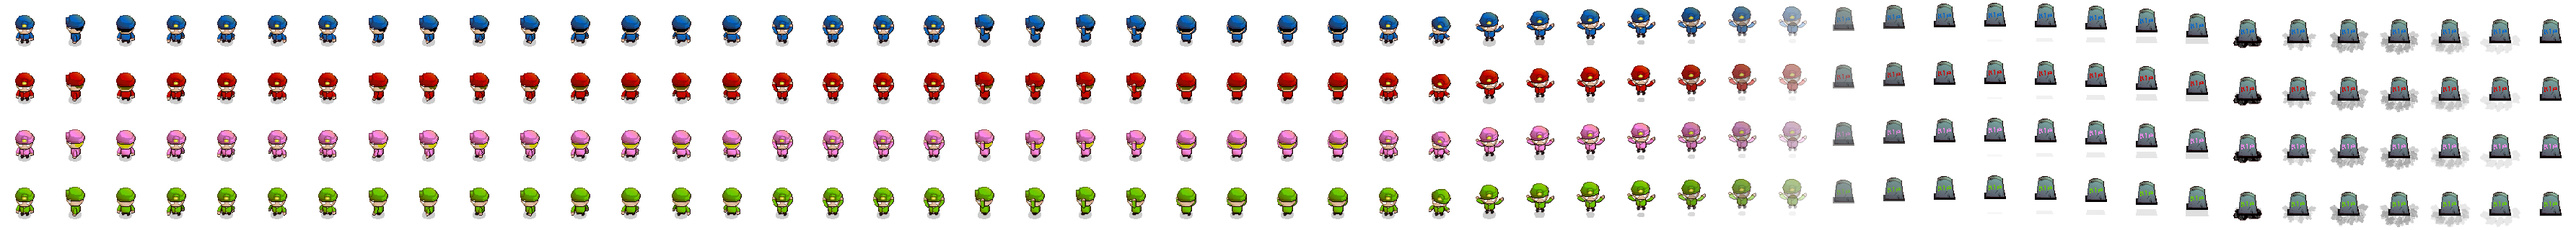
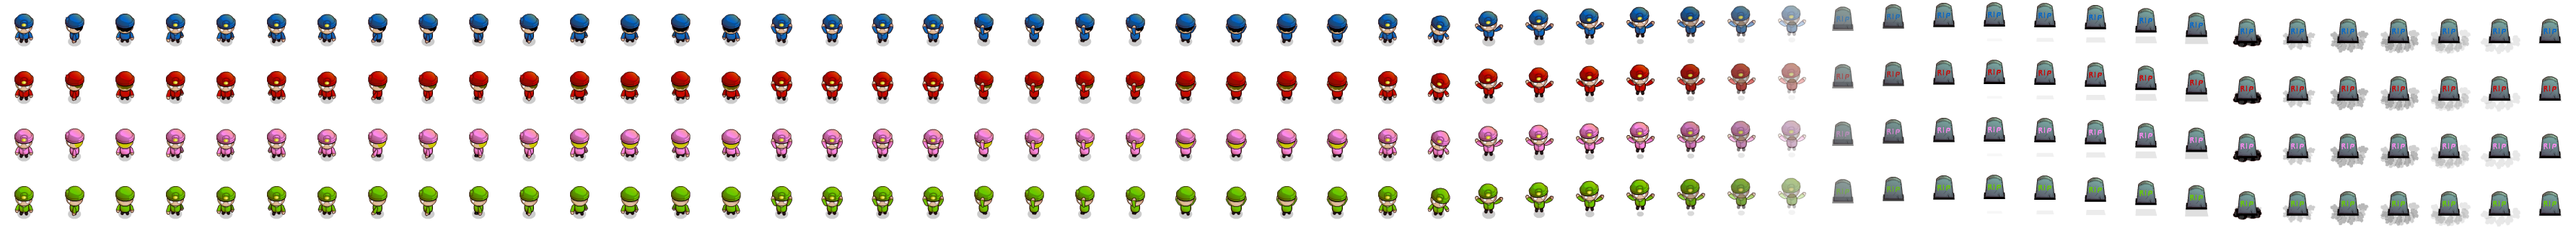
Update to HD assets

diff --git a/src/titlescreen.js b/src/titlescreen.js
@@ -10,6 +10,12 @@ TitleScreen.prototype.create = function() {
   this.slots.x = GAME_SCREEN_WIDTH * 0.15;
   this.slots.y = (GAME_SCREEN_HEIGHT + UI_BAR_HEIGHT) * 0.75;
 
+  /*
+  for (var i = 0; i < 4; i++) {
+    var emptySlot = this.game.add.sprite(i * 180, -48, 'grey_icon', 4 * i);
+    emptySlot.alpha = 0.5;
+  }*/
+
   var spaceKey = this.game.input.keyboard.addKey(Phaser.KeyCode.SPACEBAR);
   spaceKey.onUp.add(function () { this.pushInput(this.game.input.keyboard); }, this);
 

diff --git a/src/preload.js b/src/preload.js
@@ -15,6 +15,7 @@ Preload.prototype.preload = function()
   this.game.load.audio('bump', 'asset/sfx/bump.ogg');
 
   this.game.load.image('tiles', 'asset/img/tiles.png');
+  this.game.load.image('grey_icon', 'asset/img/icone_grey.png');
 
   this.game.load.spritesheet('tiles_s', 'asset/img/tiles.png', 32, 32);
   this.game.load.spritesheet('charsheet', 'asset/img/chara_anim_sheet.png', 70, 80);

diff --git a/src/fruit.js b/src/fruit.js
@@ -1,7 +1,7 @@
 var Fruit = function(game, x, y) {
   Phaser.Sprite.call(this, game, x, y, 'fruit', 1);
 
-  this.anchor.set(0.5);
+  this.anchor.set(0.5, 0.6);
 
   this.game.physics.arcade.enable(this);
   this.body.setSize(32, 32);

diff --git a/src/constants.js b/src/constants.js
@@ -12,3 +12,5 @@ var ROOM_WIDTH = 2; // in tiles
 var ROOM_HEIGHT = 2;
 
 var DEBUG_TINTS = [0x0000FF, 0xFF0000, 0xFF77FF, 0x00FF00];
+
+console.log(GAME_SCREEN_HEIGHT * 0.5);
